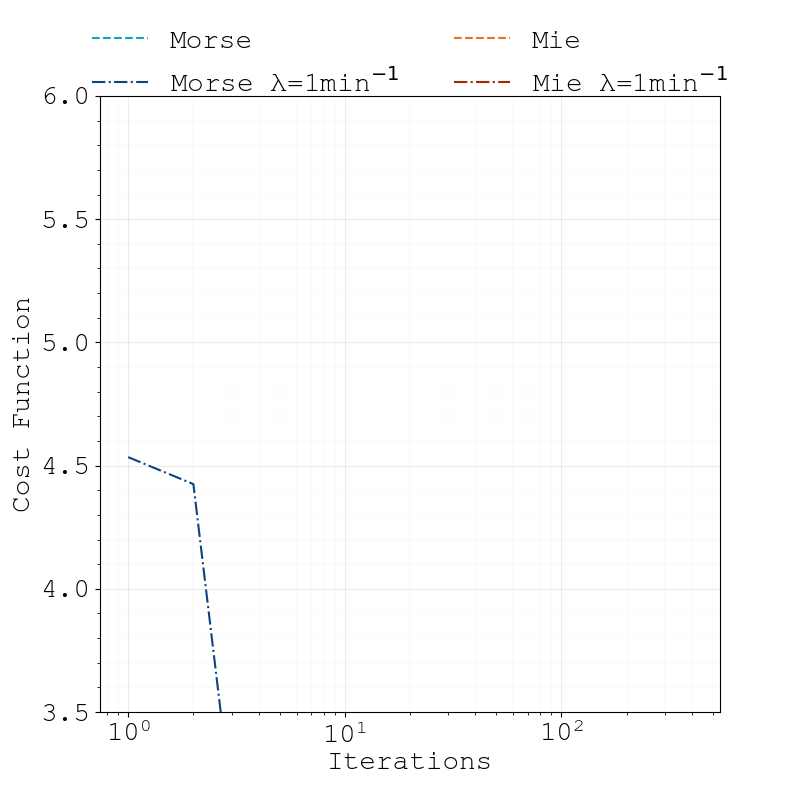
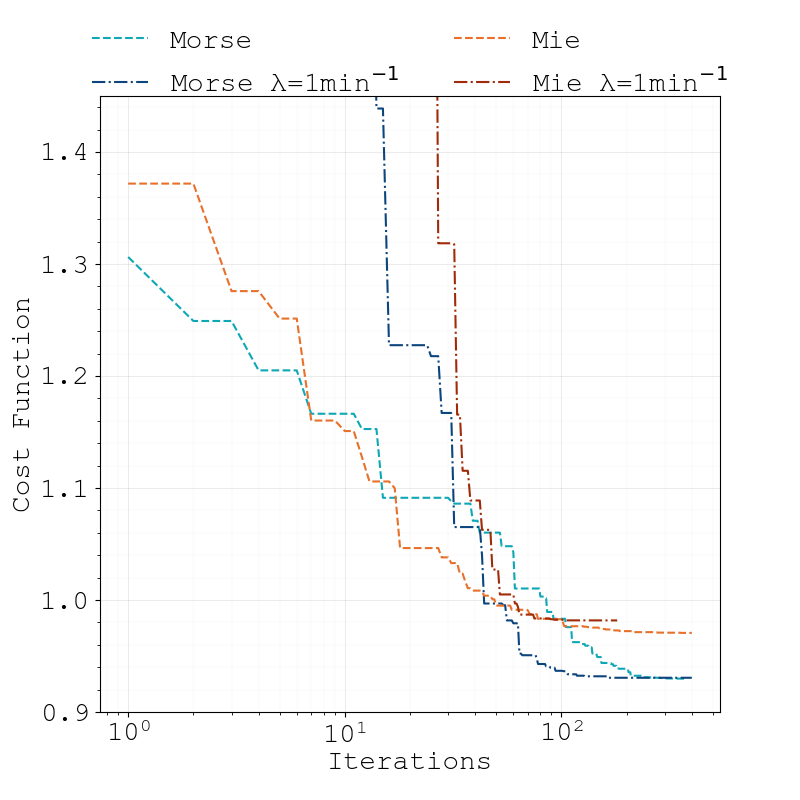
adjust y-lim and produce new plots

diff --git a/paper/figures/crm_fit/plot_profiles.py b/paper/figures/crm_fit/plot_profiles.py
@@ -237,7 +237,7 @@ def plot_all_profiles_combined(*args, odir, bounds={}):
         plt.close(fig)
 
 
-def plot_optimization_progressions_combined(*args, ylim=(3.5, 6)):
+def plot_optimization_progressions_combined(*args, ylim=(0.9, 1.45)):
     crm.plotting.set_mpl_rc_params()
     fig, ax = plt.subplots(figsize=(8, 8))
     crm.plotting.configure_ax(ax)
